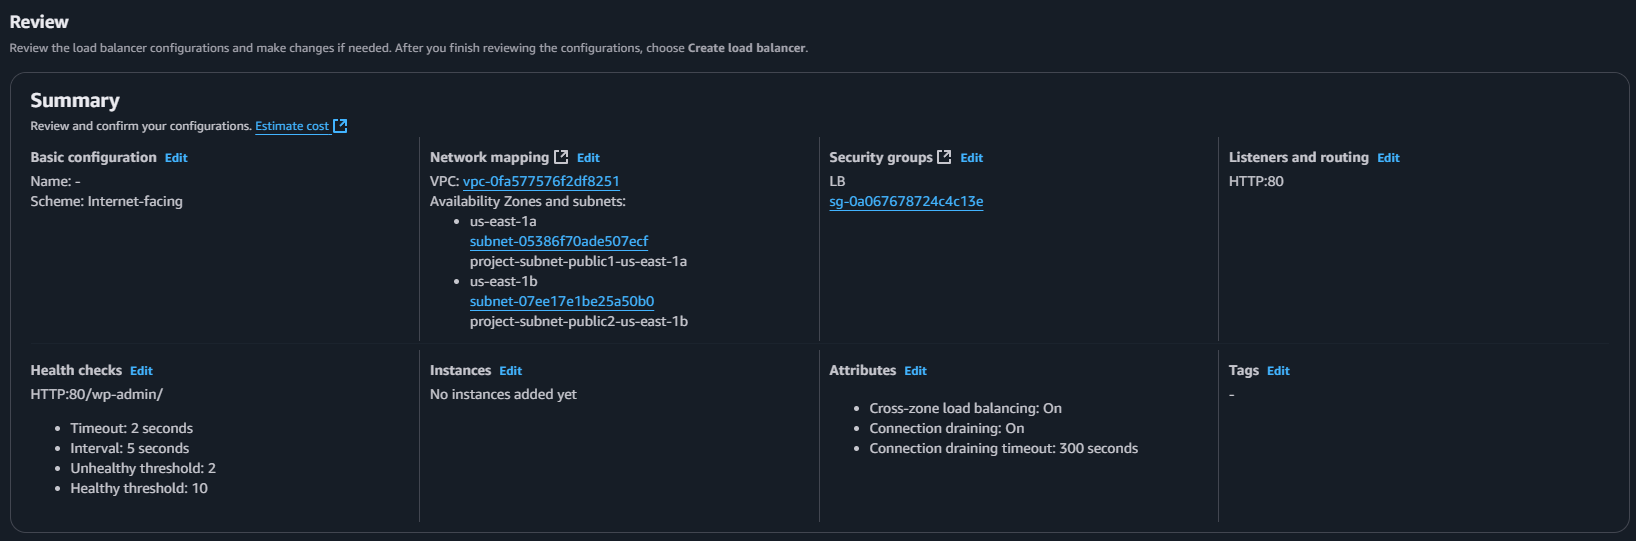
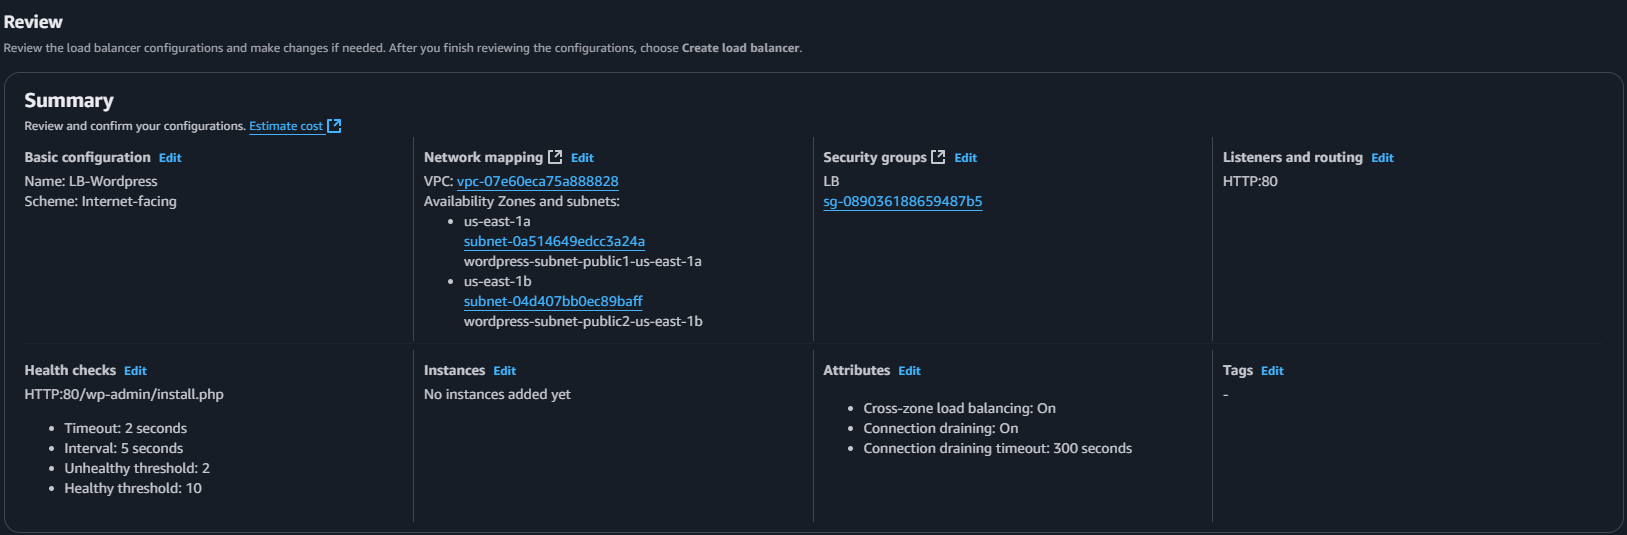
docs: Add Images and Update ReadMe

diff --git a/README.md b/README.md
@@ -17,11 +17,11 @@ Para realizar o projeto é preciso criar duas instâncias na AWS com um Docker c
 ### Procure por VPC, selecione criar VPC e siga as configurações: 
 - 2 sub-redes públicas
 - 2 sub-redes privadas
-- 1 NAT gateway
+- 1 NAT gateway por AZ
 
 ![](imgs/vpcConfig.png)
 
-![](imgs/vpcArchitecture.png)
+![](imgs/vpcConfig2.png)
 
 ## Etapa 2: Configuração dos Security Groups
 
@@ -43,11 +43,13 @@ Acesse Security Groups, selecione criar Security Groups e siga as configuraçõe
 
 #### Inbound Rules:
 - HTTP - SG-LB
+- NFS - SG-EFS
 
 #### Outbound Rules:
 - HTTP - SG-LB
 - MYSQL/Aurora - SG-RDS
 - NFS - SG-EFS
+- All Trafic - 0.0.0.0
 
 ### Banco de Dados RDS:
 
@@ -118,9 +120,9 @@ Acesse o **EFS** -> **Create File System**
 
 ### Após a criação da EFS, acesse-a e selecione **Network -> Manage**
 
-- Crie dois Mount Target e selecione o Security Group da EFS
+- Crie dois Mount Target, selecione o Security Group da EFS e as sub-redes privadas
 
-![](imgs/efsNetwork.png)
+
 
 ### Após criar os pontos de montagem, clique em anexar:
 
@@ -132,10 +134,9 @@ sudo mount -t efs -o tls mount:/ efs
 
 ![](imgs/attach.png)
 
-
 ## Etapa 5: Criação do Load Balancer
 
-Acesse **EC2** -> **Load Balancer** -> **Criar Load Balancer** -> **Classic Load Balancer**
+Acesse **EC2** -> **Load Balancer** -> **Criar Load Balancer** -> **Load Balancer Clássico**
 
 
 ### Escolha um nome e o esquema **Internet-facing**:
@@ -146,7 +147,7 @@ Acesse **EC2** -> **Load Balancer** -> **Criar Load Balancer** -> **Classic Load
 
 ![](imgs/networkLB.png)
 
-### Selecione o Security Group criado e altere o caminho de ping:
+### Selecione o Security Group e altere caminho do ping:
 
 ![](imgs/securityLB.png)
 
@@ -212,8 +213,64 @@ Acesse **EC2** -> **Launch Template** -> **Criar Launch Template**
 
 ![](imgs/configNetworkLT.png)
 
-### Em detalhes avançados no campo User data, cole o script user data:
+### Em detalhes avançados -> User data, cole o script user data:
 
-![](imgs/userData.png)
+![](imgs/userDataLT.png)
 
-### Após isso é só criar o Launch Template
+### Após isso, é só criar o Launch Template
+
+## Etapa 7: Criação do Auto Scaling Group
+
+Acesse **EC2 -> Auto Scaling Groups -> Criar Auto Scaling Group**
+
+### Passo 1: Digite o nome do Auto Scaling Group e selecione o Launch Template criado:
+
+![](imgs/step1ASG.png)
+
+### Passo 2: Selecione a **VPC** e as **sub-redes privadas**:
+
+![](imgs/step2ASG.png)
+
+### Passo 3: Selecione o **Anexar ao Load Balancer** e **Escolha Load Balancer Clássico**:
+
+![](imgs/step3¹ASG.png)
+
+- Habilite o **Elastic Load Balancing Health Checks**:
+
+![](imgs/step3²ASG.png)
+
+### Passo 4: Selecione a capacidade inicial, mínima e máxima, respectivamente (2,2,3):
+
+![](imgs/step4¹ASG.png)
+
+- Habilite a coleta de métricas do CloudWatch
+
+![](imgs/step4²ASG.png)
+
+### Passo 5: Prossiga para o passo 6
+
+### Passo 6: Caso desejar, adicione tags para identificar o Auto Scaling Group:
+
+![](imgs/step6ASG.png)
+
+### Passo 7: Revise todos os passos anteriores e crie o Auto Scaling Group:
+
+![](imgs/step7¹ASG.png)
+![](imgs/step7²ASG.png)
+![](imgs/step7³ASG.png)
+
+## Etapa 8: Acesso a página do Wordpress
+
+### Após criar o Auto Scaling Group, acesse **EC2 -> Instâncias** e confira se as instâncias foram criadas
+
+![](imgs/ec2ASG.png)
+
+### Acesse **EC2 -> Load Balancer** e copie **DNS NAME** para acessar a página do Wordpress
+
+![](imgs/lbASG.png)
+
+> ⚠ **ATENÇÃO:** Espere até a instância estar inicializada para colar no navegador o **DNS NAME**
+
+### Cole o **DNS NAME** no navegador e faça o cadastro no Wordpress
+
+![](imgs/loginWP.png)
